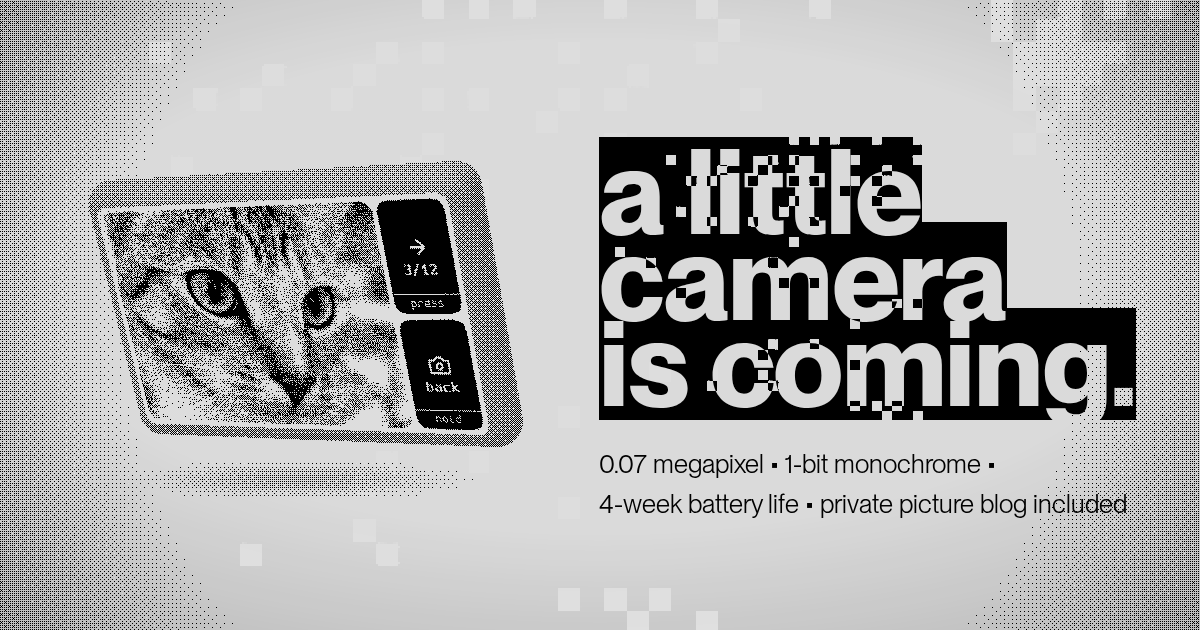
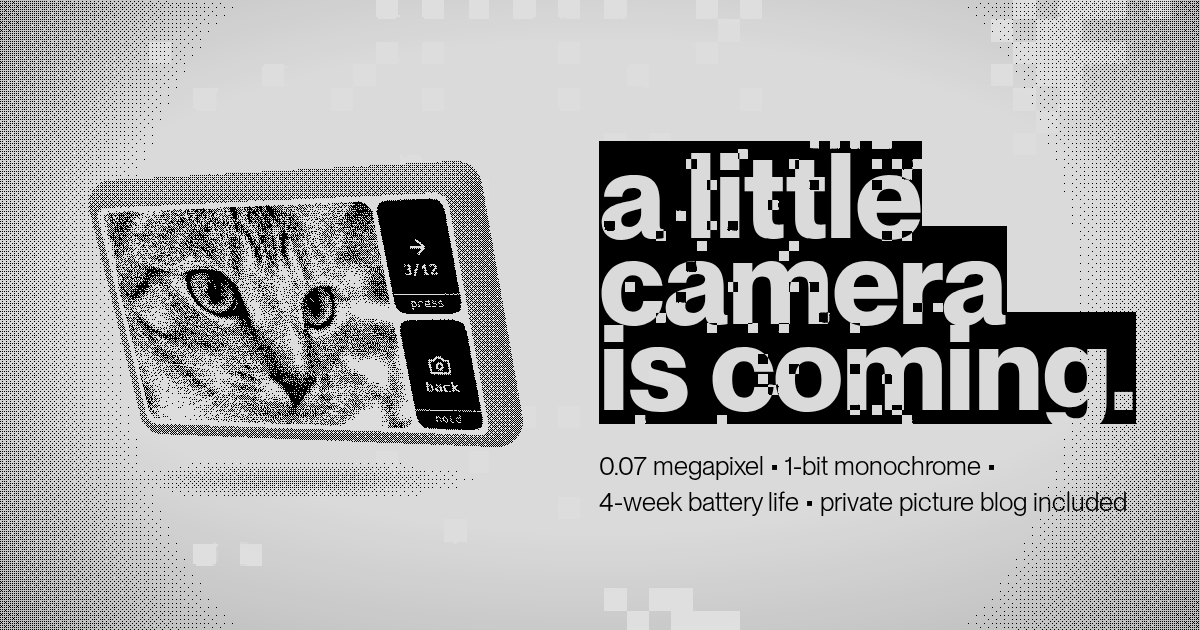
chore(site): tightening the spec line's leading
1.55 -> 1.4. That is just under the banded line's own height (1em plus
twice the .16em of padding), so on the page the two bands meet instead of
sitting apart and the pair reads as one black block, like the headline
above it. On the card, where there is no band, it just closes the two
lines up.

Claude-Session: https://claude.ai/code/session_018Do1eGLFYYJFzp83wMP41s

diff --git a/site/index.html b/site/index.html
@@ -220,9 +220,11 @@ h1 span{display:block; width:fit-content; white-space:nowrap}
    itself: a flex item is blockified, so a background there would run the full
    measure instead of hugging the words. Inline, it breaks with the text and
    each line gets its own band, which box-decoration-break gives its own
-   padding too. The leading is opened up to keep those bands off each other. */
+   padding too. At 1.4 the leading is just under the banded line's own height
+   (1em plus twice .16em of padding), so the bands meet instead of sitting
+   apart: two lines read as one black block, the way the headline does. */
 .by{margin:0; font-family:var(--font); font-weight:400;
-    font-size:calc(var(--sheet) * 0.048); line-height:1.55}
+    font-size:calc(var(--sheet) * 0.048); line-height:1.4}
 .by span{background:var(--ink); color:var(--paper);
          padding:.16em .34em;
          -webkit-box-decoration-break:clone; box-decoration-break:clone}

diff --git a/site/README.md b/site/README.md
@@ -308,7 +308,9 @@ That band is on an inline span inside the paragraph, not on the paragraph
 itself: a flex item is blockified, so a background there would run the full
 measure instead of hugging the words. Inline, it breaks with the text and each
 line gets its own band, which `box-decoration-break: clone` gives its own
-padding too. The leading is opened to 1.55 to keep those bands off each other. White
+padding too. The leading is 1.4, just under the banded line's own height (1em
+plus twice the .16em of padding), so the bands meet rather than sitting apart
+and two lines read as one black block, the way the headline does. White
 letters in `mix-blend-mode: difference` come out as the exact opposite of the
 ground under them, so the line carries the page's own dots reversed rather than
 a colour of its own. Nothing between it and the ground may be a stacking
